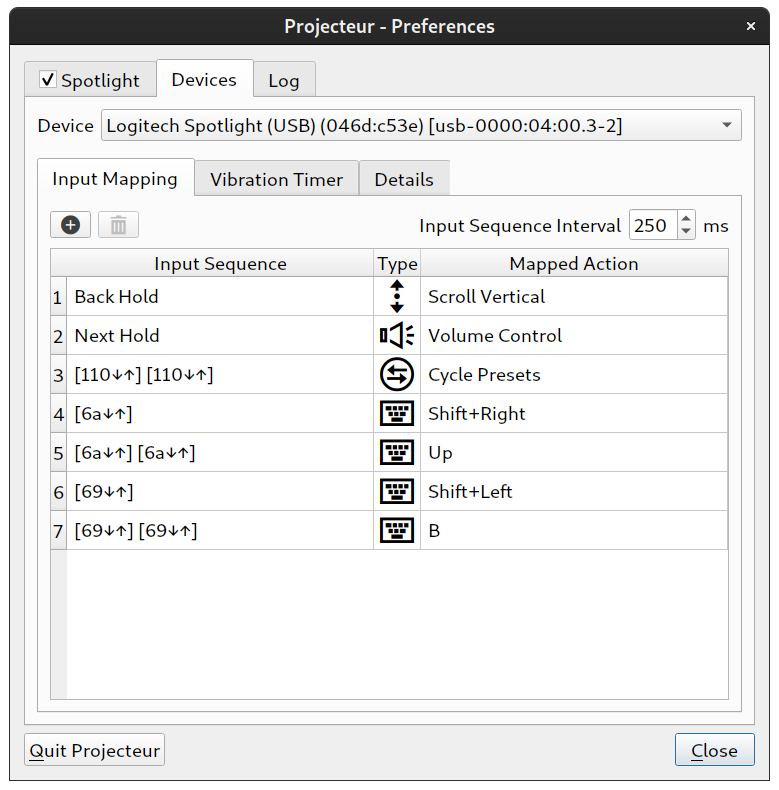
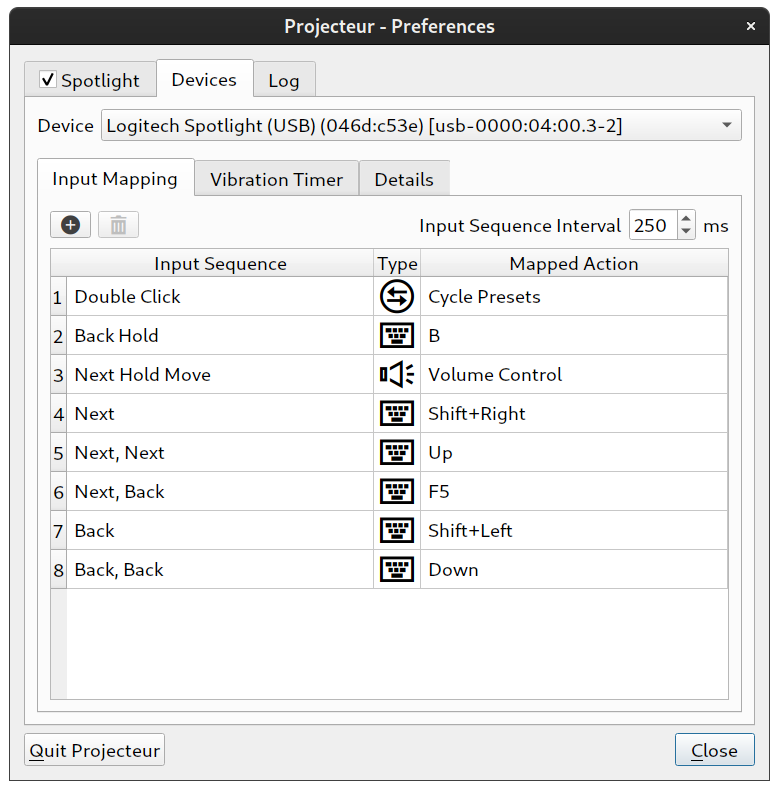
User-friendly name in Input Mapper
The Input sequence is now drawn with meaningful text. The screenshot of
input mapper button mapping is also updated in this commit.

diff --git a/src/inputseqedit.cc b/src/inputseqedit.cc
@@ -6,6 +6,7 @@
 #include "deviceinput.h"
 #include "inputmapconfig.h"
 #include "logging.h"
+#include "common-input-seq.h"
 
 #include <QApplication>
 #include <QMenu>
@@ -410,6 +411,20 @@ void InputSeqDelegate::paint(QPainter* painter, const QStyleOptionViewItem& opti
   const int xPos = (option.rect.height()-fm.height()) / 2;
   const auto& keySeq = imModel->configData(index).deviceSequence;
   const auto& specialKeysMap = SpecialKeys::keyEventSequenceMap();
+  const auto& commonKeysInfo = CommonKeyEventSeqInfo::commonInputSeq;
+
+  // Separate out events of type EV_KEY only
+  const auto keySeqOnlyEV_KEY = [keySeq](){
+    KeyEventSequence kes_comparision;
+    for (auto ke: keySeq) {
+      KeyEvent temp_ke;
+      for (auto k: ke){
+        if (k.type == EV_KEY) temp_ke.emplace_back(k);
+      }
+      kes_comparision.emplace_back(temp_ke);
+    }
+    return kes_comparision;
+  }();
 
   const auto it = std::find_if(specialKeysMap.cbegin(), specialKeysMap.cend(),
     [&keySeq](const auto& specialKeyInfo){
@@ -423,7 +438,36 @@ void InputSeqDelegate::paint(QPainter* painter, const QStyleOptionViewItem& opti
   }
   else
   {
-    drawKeyEventSequence(xPos, *painter, option, keySeq);
+    size_t i = 0, old_i = 0;
+    int xPosition = xPos;
+    while (i < keySeqOnlyEV_KEY.size())
+    {
+      for (auto& kes: commonKeysInfo) {
+        if (kes.keyEventSeq.size() > keySeqOnlyEV_KEY.size() - i) continue;
+        auto KeqSeqPart = KeyEventSequence(keySeqOnlyEV_KEY.begin()+i,
+                                           keySeqOnlyEV_KEY.begin()+i+kes.keyEventSeq.size());
+        if (KeqSeqPart == kes.keyEventSeq) {
+          i += KeqSeqPart.size();
+          xPosition += drawPlaceHolderText(xPosition, *painter, option, kes.name, false);
+          break;
+        }
+      }
+      if (old_i == i) {
+        if (i+1 < keySeqOnlyEV_KEY.size() && isButtonTap(keySeqOnlyEV_KEY.at(i), keySeqOnlyEV_KEY.at(i+1))) {
+          xPosition += drawKeyEventSequence(xPosition, *painter, option, {keySeqOnlyEV_KEY.at(i), keySeqOnlyEV_KEY.at(i+1)});
+          i += 2;
+        }
+        else
+        {
+          xPosition += drawKeyEventSequence(xPosition, *painter, option, {keySeqOnlyEV_KEY.at(i)});
+          i++;
+        }
+      }
+      if (i < keySeqOnlyEV_KEY.size()) {
+        xPosition += drawPlaceHolderText(xPosition, *painter, option, ", ", false);
+      }
+      old_i = i;
+    }
   }
 
   if (option.state & QStyle::State_HasFocus) {
@@ -532,30 +576,32 @@ void InputSeqDelegate::inputSeqContextMenu(QWidget* parent, InputMapConfigModel*
     auto* const menu = new QMenu(parent);
 
     for (const auto& button : specialInputs) {
-      const auto qaction = menu->addAction(button.name);
-      connect(qaction, &QAction::triggered, this, [model, index, button](){
-        model->setInputSequence(index, button.keyEventSeq);
-        const auto& currentItem = model->configData(index);
-        if (!currentItem.action) {
-          model->setItemActionType(index, Action::Type::ScrollHorizontal);
-        }
-        else
-        {
-          switch (currentItem.action->type())
+      if (button.isMoveEvent) {
+        const auto qaction = menu->addAction(button.name);
+        connect(qaction, &QAction::triggered, this, [model, index, button](){
+          model->setInputSequence(index, button.keyEventSeq);
+          const auto& currentItem = model->configData(index);
+          if (!currentItem.action) {
+            model->setItemActionType(index, Action::Type::ScrollVertical);
+          }
+          else
           {
-            case Action::Type::ScrollHorizontal:   // [[fallthrough]];
-            case Action::Type::ScrollVertical:     // [[fallthrough]];
-            case Action::Type::VolumeControl: {
-              // scrolling and volume control allowed for special input
-              break;
-            }
-            default: {
-              model->setItemActionType(index, Action::Type::ScrollVertical);
-              break;
+            switch (currentItem.action->type())
+            {
+              case Action::Type::ScrollHorizontal:   // [[fallthrough]];
+              case Action::Type::ScrollVertical:     // [[fallthrough]];
+              case Action::Type::VolumeControl: {
+                // scrolling and volume control allowed for special input
+                break;
+              }
+              default: {
+                model->setItemActionType(index, Action::Type::ScrollVertical);
+                break;
+              }
             }
           }
-        }
-      });
+        });
+      }
     }
 
     menu->exec(globalPos);

diff --git a/src/deviceinput.cc b/src/deviceinput.cc
@@ -863,13 +863,23 @@ InputMapper::ReservedInputs& InputMapper::specialInputs()
 namespace SpecialKeys
 {
 // -------------------------------------------------------------------------------------------------
+// Functions that provide all special event sequences for a device.
+// Currently, special event seqences are only defined for
+// Logitech Spotlight device. Please note that all special key event
+// sequences are not necessarily be move type Key Seqeuce.
+// Move type Key Sequences for the device are stored in
+// InputMapper::Impl::m_reservedInputs by SubHidppConnection::updateDeviceFlags.
 const std::map<Key, SpecialKeyEventSeqInfo>&  keyEventSequenceMap()
 {
   static const std::map<Key, SpecialKeyEventSeqInfo> keyMap {
-    {Key::BackHoldMove, {InputMapper::tr("Back Hold Move"),
-      makeSpecialKeyEventSequence(to_integral(Key::BackHoldMove))}},
+    {Key::NextHold, {InputMapper::tr("Next Hold"),
+      makeSpecialKeyEventSequence(to_integral(Key::NextHold))}},
+    {Key::BackHold, {InputMapper::tr("Back Hold"),
+      makeSpecialKeyEventSequence(to_integral(Key::BackHold))}},
     {Key::NextHoldMove, {InputMapper::tr("Next Hold Move"),
-      makeSpecialKeyEventSequence(to_integral(Key::NextHoldMove))}},
+      makeSpecialKeyEventSequence(to_integral(Key::NextHoldMove)), true}},
+    {Key::BackHoldMove, {InputMapper::tr("Back Hold Move"),
+      makeSpecialKeyEventSequence(to_integral(Key::BackHoldMove)), true}},
   };
   return keyMap;
 }

diff --git a/src/spotlight.cc b/src/spotlight.cc
@@ -36,10 +36,7 @@ namespace {
 // Hold button state. Very much Logitech Spotlight specific.
 struct HoldButtonStatus
 {
-  enum class Button : uint16_t {
-    Next = 0x0e10, // must be in SpecialKeys user range
-    Back = 0x0e11, // must be in SpecialKeys user range
-  };
+
 
   void setButtonsPressed(bool nextPressed, bool backPressed)
   {
@@ -470,11 +467,15 @@ void Spotlight::registerForNotifications(SubHidppConnection* connection)
       const auto isBackPressed = msg[5] == ButtonBack || msg[7] == ButtonBack;
 
       if (!m_holdButtonStatus->nextPressed() && isNextPressed) {
-        connection->inputMapper()->addEvents(KeyEvent{{EV_KEY, to_integral(HoldButtonStatus::Button::Next), 1}});
+        for (auto ke: SpecialKeys::eventSequenceInfo(SpecialKeys::Key::NextHold).keyEventSeq) {
+          connection->inputMapper()->addEvents(ke);
+        }
       }
 
       if (!m_holdButtonStatus->backPressed() && isBackPressed) {
-        connection->inputMapper()->addEvents(KeyEvent{{EV_KEY, to_integral(HoldButtonStatus::Button::Back), 1}});
+        for (auto ke: SpecialKeys::eventSequenceInfo(SpecialKeys::Key::BackHold).keyEventSeq) {
+          connection->inputMapper()->addEvents(ke);
+        }
       }
 
       m_holdButtonStatus->setButtonsPressed(isNextPressed, isBackPressed);

diff --git a/src/common-input-seq.h b/src/common-input-seq.h
@@ -1,0 +1,18 @@
+// This file is part of Projecteur - https://github.com/jahnf/projecteur
+// - See LICENSE.md and README.md
+#pragma once
+
+#include "deviceinput.h"
+#include <linux/input.h>
+
+#include <array>
+
+namespace CommonKeyEventSeqInfo {
+  static const std::array<SpecialKeys::SpecialKeyEventSeqInfo, 5> commonInputSeq = {{
+    {"Double Click", {{{EV_KEY, BTN_LEFT, 1}}, {{EV_KEY, BTN_LEFT, 0}}, {{EV_KEY, BTN_LEFT, 1}}, {{EV_KEY, BTN_LEFT, 0}}}},
+    {"Click", {{{EV_KEY, BTN_LEFT, 1}}, {{EV_KEY, BTN_LEFT, 0}}}},
+    {"Right Click", {{{EV_KEY, BTN_RIGHT, 1}}, {{EV_KEY, BTN_RIGHT, 0}}}},
+    {"Next", {{{EV_KEY, KEY_RIGHT, 1}}, {{EV_KEY, KEY_RIGHT, 0}}}},
+    {"Back", {{{EV_KEY, KEY_LEFT, 1}}, {{EV_KEY, KEY_LEFT, 0}}}},
+  }};
+}

diff --git a/src/deviceinput.h b/src/deviceinput.h
@@ -87,13 +87,16 @@ namespace SpecialKeys
   constexpr uint16_t userRange = 0x0e00; // 0x0e00 - 0x0eff
 
   enum class Key : uint16_t {
-    NextHoldMove = 0x0ff0,
-    BackHoldMove = 0x0ff1,
+    NextHold = 0x0e10,      // must be in SpecialKeys user range
+    BackHold = 0x0e11,      // must be in SpecialKeys user range
+    NextHoldMove = 0x0ff0,  // must be in SpecialKeys range
+    BackHoldMove = 0x0ff1,  // must be in SpecialKeys range
   };
 
   struct SpecialKeyEventSeqInfo {
     QString name;
     KeyEventSequence keyEventSeq;
+    bool isMoveEvent = false;
   };
 
   const SpecialKeyEventSeqInfo& eventSequenceInfo(SpecialKeys::Key key);

diff --git a/src/device-hidpp.cc b/src/device-hidpp.cc
@@ -706,8 +706,8 @@ void SubHidppConnection::updateDeviceFlags()
     specialInputs.clear();
     featureFlagsSet |= DeviceFlags::NextHold;
     featureFlagsSet |= DeviceFlags::BackHold;
-    specialInputs.emplace_back(SpecialKeys::eventSequenceInfo(SpecialKeys::Key::BackHoldMove));
     specialInputs.emplace_back(SpecialKeys::eventSequenceInfo(SpecialKeys::Key::NextHoldMove));
+    specialInputs.emplace_back(SpecialKeys::eventSequenceInfo(SpecialKeys::Key::BackHoldMove));
     logDebug(hid) << tr("Subdevice '%1' reported %2 support.")
                      .arg(path()).arg(toString(HIDPP::FeatureCode::ReprogramControlsV4));
   }

diff --git a/src/inputmapconfig.cc b/src/inputmapconfig.cc
@@ -168,7 +168,10 @@ void InputMapConfigModel::setInputSequence(const QModelIndex& index, const KeyEv
       const auto& specialKeysMap = SpecialKeys::keyEventSequenceMap();
       const bool isSpecialMoveInput = std::any_of(specialKeysMap.cbegin(), specialKeysMap.cend(),
         [&c](const auto& specialKeyInfo){
-          return (c.deviceSequence == specialKeyInfo.second.keyEventSeq);
+          if (c.deviceSequence == specialKeyInfo.second.keyEventSeq) {
+            return specialKeyInfo.second.isMoveEvent;
+          }
+          return false;
         }
       );
 

diff --git a/src/actiondelegate.cc b/src/actiondelegate.cc
@@ -346,7 +346,10 @@ void ActionTypeDelegate::actionContextMenu(QWidget* parent, InputMapConfigModel*
   const auto& specialKeysMap = SpecialKeys::keyEventSequenceMap();
   const bool isSpecialMoveInput = std::any_of(specialKeysMap.cbegin(), specialKeysMap.cend(),
     [&item](const auto& specialKeyInfo){
-      return (item.deviceSequence == specialKeyInfo.second.keyEventSeq);
+      if (item.deviceSequence == specialKeyInfo.second.keyEventSeq) {
+        return specialKeyInfo.second.isMoveEvent;
+      }
+      return false;
     }
   );
 
